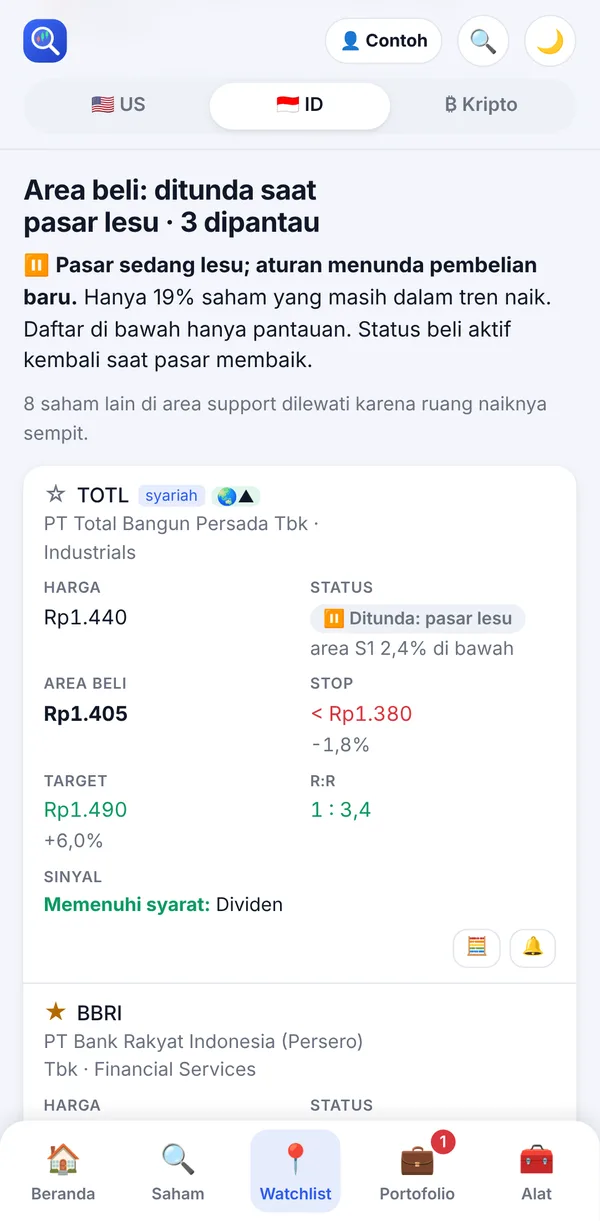
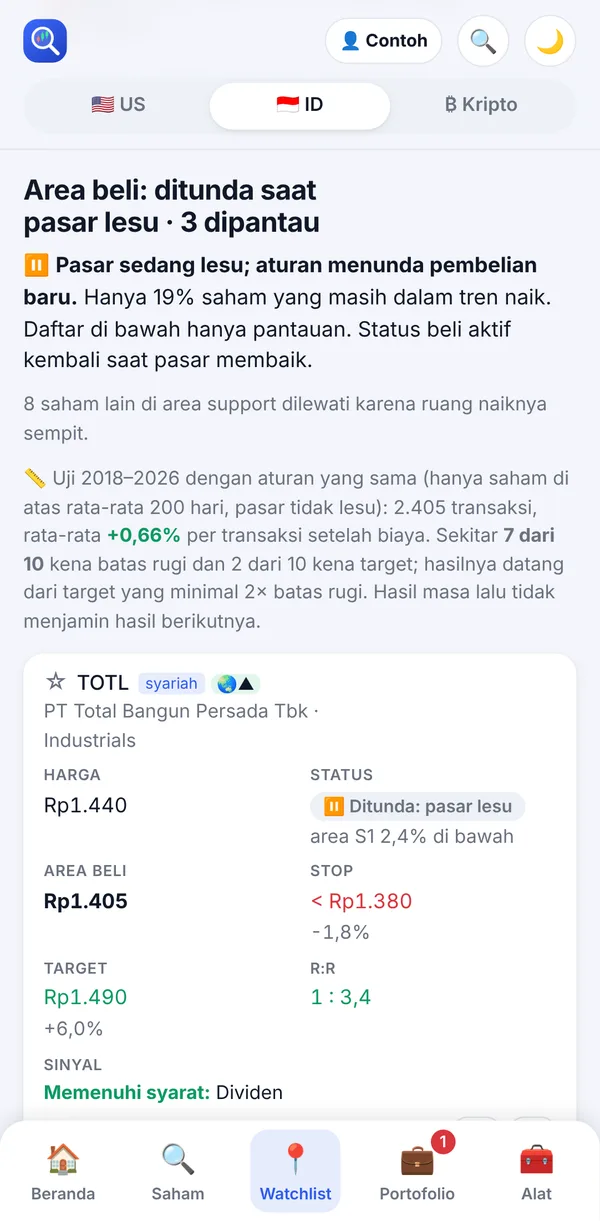
Area beli BEI hanya untuk saham di atas MA200 + hasil uji 2018-2026 di Watchlist
Claude-Session: https://claude.ai/code/session_012CAGJkYUHsEMWwfJLfAKuZ

diff --git a/index.html b/index.html
@@ -559,7 +559,7 @@ function tabCount(t,list){
     else if(t.id==="screen") c=`<b>${fstate().cur.length}</b> aturan · ${fstate().saved.length} favorit`;
     else if(t.id==="divcal") { const td=(DATA&&DATA.priceDate)||""; const n=list.filter(o=>o.dv&&o.dv.ex>=td&&o.dv.ex<=new Date(new Date(td).getTime()+14*864e5).toISOString().slice(0,10)).length; c=`<b>${n}</b> dalam 2 minggu`; }
     else if(t.id==="porto") { const P=porto(); if(!P.open.length) c="Catat & pantau"; else { const nd=P.open.filter(ps=>posEval(ps).acts.some(a=>a.lv<=1)).length; c=`<b>${P.open.length}</b> posisi${nd?` · ⚠ ${nd} perlu tindakan`:""}`; } }
-    else if(t.id==="watch") { if(CYC&&CYC.watch){ const pl=planList(Object.fromEntries(list.map(o=>[o.ticker,o]))).list, n=pl.filter(x=>x.pl.kind==="now").length; c=pl.some(x=>x.pl.kind==="wait")?T(`⏸ ditunda · ${pl.length} dipantau`,`⏸ pasar lesu · ${pl.length} dipantau`):SAFE?`<b>${n}</b> di area beli · ${pl.length-n} menunggu`:`<b>${n}</b> beli sekarang · ${pl.length-n} antrean`; } else c="★ dan area support"; }
+    else if(t.id==="watch") { if(CYC&&CYC.watch){ const pl=planList(Object.fromEntries(list.map(o=>[o.ticker,o]))).list, n=pl.filter(x=>x.pl.kind==="now").length; c=pl.some(x=>x.pl.kind==="wait"&&x.pl.why!=="trend")?T(`⏸ ditunda · ${pl.length} dipantau`,`⏸ pasar lesu · ${pl.length} dipantau`):SAFE?`<b>${n}</b> di area beli · ${pl.length-n} menunggu`:`<b>${n}</b> beli sekarang · ${pl.length-n} antrean`; } else c="★ dan area support"; }
     else if(t.id==="cycles") { const f=CYC&&Object.values(CYC.indices)[0]; c=f?`<b>${(f.rawan||[]).length}</b> tanggal rawan`:"Analisis"; }
     else { const u=list.map(o=>uv(o,t.id)), b=u.filter(x=>x.s==="buy").length, nw=u.filter(x=>x.s==="buy"&&x.fresh).length; c=`<b>${b}</b> layak beli${nw?` · ${nw} baru`:""}`; }
   return c;
@@ -637,7 +637,7 @@ function renderSummary(box){
   if(!CYC&&!CYC_ERR&&!SARAN_LOADED){ SARAN_LOADED=true; loadCycles().then(()=>{ if(tab==="summary") renderResults(); }); }
   const sm=saranMarket(), cand=candidates();
   const candHtml=cand.length?`<p style="margin-top:12px"><b>${T("👀 Saham yang layak dilirik hari ini","👀 Saham yang memenuhi syarat metode yang cocok dengan kondisi pasar")}</b></p><div class="dl">${cand.map(x=>{ const pl=planFor(x.o.ticker);
-      return `<div class="row" data-t="${esc(x.o.ticker)}" style="cursor:pointer"><span><b class="tk">${esc(x.o.ticker)}</b> ${usd(x.o.price)}<br><span class="note">${esc(M.filter(m=>uv(x.o,m.id).s==="buy").map(m=>m.name).join(", "))}</span></span><span>${pl?(pl.kind==="wait"?`<span class="st wait">⏸ ${T("tunggu pasar","ditunda")}</span>`:pl.kind==="now"?`<span class="st buy">${T("🟢 boleh beli","🟢 di area beli")}</span>`:`<span class="st hold">${T("🟡 antre","🟡 area beli")} ${usd(pl.e)}</span>`):`<span class="note">${T("pantau dulu","di luar area beli")}</span>`}</span></div>`}).join("")}</div><p class="note">Ketuk saham untuk penjelasan lengkapnya.</p>`:`<p style="margin-top:10px">Belum ada saham yang cocok dengan kondisi pasar sekarang. Menunggu juga keputusan yang bagus.</p>`;
+      return `<div class="row" data-t="${esc(x.o.ticker)}" style="cursor:pointer"><span><b class="tk">${esc(x.o.ticker)}</b> ${usd(x.o.price)}<br><span class="note">${esc(M.filter(m=>uv(x.o,m.id).s==="buy").map(m=>m.name).join(", "))}</span></span><span>${pl?(pl.kind==="wait"?`<span class="st wait">⏸ ${T("tunggu","ditunda")}</span>`:pl.kind==="now"?`<span class="st buy">${T("🟢 boleh beli","🟢 di area beli")}</span>`:`<span class="st hold">${T("🟡 antre","🟡 area beli")} ${usd(pl.e)}</span>`):`<span class="note">${T("pantau dulu","di luar area beli")}</span>`}</span></div>`}).join("")}</div><p class="note">Ketuk saham untuk penjelasan lengkapnya.</p>`:`<p style="margin-top:10px">Belum ada saham yang cocok dengan kondisi pasar sekarang. Menunggu juga keputusan yang bagus.</p>`;
   const E=(DATA&&DATA.etf)||{}, ek=Object.keys(E).filter(k=>k!=="IHSG"&&E[k].perf1y!=null).slice(0,3);
   const etfNote=IS_ID?(E.IHSG&&E.IHSG.perf1y!=null?`<p class="note">Pembanding: IHSG ${pct(E.IHSG.perf1y)} dalam setahun. ETF di BEI umumnya sepi transaksi, jadi membeli saham pilihan atau reksa dana indeks sering lebih praktis.</p>`:"")
     :(ek.length?`<p class="note">Cara paling sederhana tetap membeli indeks: ${ek.map(k=>`${esc(k)} ${pct(E[k].perf1y)}`).join(" · ")} dalam setahun. Bila tidak sempat memilih saham, ini pilihan dengan bukti terkuat.</p>`:"");
@@ -1256,6 +1256,9 @@ function saranStock(o){
       if(w) L.push(`👍 ${w}. <span class="note">(lolos penilaian ${esc(nm(by.buy))})</span>`);
       L.push(SAFE?`🎯 Area beli menurut aturan: sekitar <b>${usd(pl.e)}</b>. Batas rugi: <b>${usd(pl.stop)}</b> (harga penutupan).`:`🎯 Beli di sekitar <b>${usd(pl.e)}</b> atau lebih rendah. Kalau harga ditutup di bawah <b>${usd(pl.stop)}</b>, jual.`);
       L.push(pl.tgt?(SAFE?`📈 Target menurut aturan (${tip("batas atas","resistance")} terdekat): <b>${usd(pl.tgt)}</b> (+${nf((pl.tgt/pl.e-1)*100,1)}%).`:`📈 Target wajar sekitar <b>${usd(pl.tgt)}</b> (+${nf((pl.tgt/pl.e-1)*100,1)}%).`):"📈 Belum ada penghalang kuat di atas, jadi ruang naiknya masih lega.");
+    } else if(pl&&pl.kind==="wait"&&pl.why==="trend"){ c="y"; title=SAFE?"Lolos penilaian metode; aturan Area beli menunggu tren naik (harga masih di bawah rata-rata 200 hari).":pick(["Saham bagus, tapi trennya masih turun. Tunggu dulu.","Menarik, tapi harganya masih di bawah rata-rata 200 hari. Sabar dulu.","Bagus, cuma trennya belum berbalik naik."],o.ticker);
+      if(w) L.push(`👍 ${w}. <span class="note">(lolos penilaian ${esc(nm(by.buy))})</span>`);
+      L.push(`⏸ ${SAFE?"Area beli menurut aturan":"Area beli yang dipantau"}: <b>${usd(pl.e)}</b>, batas rugi <b>${usd(pl.stop)}</b>. Harga masih ${nf(Math.abs(o.sma200),1)}% di bawah rata-rata 200 hari. ${SAFE?"Di uji 2018–2026, Area beli pada saham dengan tren turun hasilnya jauh lebih rendah.":"Di uji 2018–2026, beli di support saat tren masih turun hasilnya hampir impas. Tunggu harga kembali di atas rata-rata 200 hari."}`);
     } else if(pl&&pl.kind==="wait"){ c="y"; title=SAFE?"Lolos penilaian metode; aturan menunda pembelian saat pasar lesu.":pick(["Saham bagus, tapi pasar sedang lesu. Tunggu dulu.","Menarik, tapi tahan dulu sampai pasar membaik.","Bagus, cuma pasarnya belum mendukung. Sabar dulu."],o.ticker);
       if(w) L.push(`👍 ${w}. <span class="note">(lolos penilaian ${esc(nm(by.buy))})</span>`);
       L.push(`⏸ ${SAFE?"Area beli menurut aturan":"Area beli yang dipantau"}: <b>${usd(pl.e)}</b>${pl.was==="now"?" (harga sudah di area ini)":` (${pc(pl.e,p)} di bawah harga sekarang)`}, batas rugi <b>${usd(pl.stop)}</b>. ${SAFE?"Status beli aktif kembali saat pasar membaik.":"Saat pasar lesu, beli di support sering langsung kena batas rugi. Statusnya kembali ke “beli” begitu pasar membaik."}`);
@@ -1393,7 +1396,10 @@ function planList(byT){
   const mk=(src,near)=>Object.entries(src||{}).filter(([t,w])=>byT[t]&&w.strength!=="lemah").map(([t,w])=>{ const x={t,w,o:byT[t],sg:sigOf(byT[t],allow),near}; x.rm=roomOf(t,w); return x; }).filter(x=>x.sg.any);
   const all=[...mk(W.in,false),...mk(W.near,true)]; let skip=0; const out=[];
   const pause=regime().k==="tertekan"; // pasar lesu: pembelian baru ditunda (uji 9 th: menunggu pasar pulih membuat CAN SLIM jauh lebih tahan)
-  all.forEach(x=>{ x.pl=planOf(x); if(x.pl&&pause) x.pl={...x.pl,was:x.pl.kind,kind:"wait"}; if(x.pl) out.push(x); else skip++; });
+  all.forEach(x=>{ x.pl=planOf(x);
+    if(x.pl&&pause) x.pl={...x.pl,was:x.pl.kind,kind:"wait"};
+    else if(x.pl&&IS_ID&&x.o.sma200!=null&&x.o.sma200<=0) x.pl={...x.pl,was:x.pl.kind,kind:"wait",why:"trend"}; // BEI: hanya saham di atas rata-rata 200 hari (uji 2018–2026)
+    if(x.pl) out.push(x); else skip++; });
   out.sort((a,b)=>(a.pl.kind==="now"?0:1)-(b.pl.kind==="now"?0:1)||(a.pl.kind==="now"?(b.pl.rr??9)-(a.pl.rr??9):b.pl.dist-a.pl.dist));
   return {list:out,skip};
 }
@@ -1403,14 +1409,15 @@ function renderWatch(box){
   const W=CYC.watch, allow=allowedMethods(), r=regime();
   const byT=Object.fromEntries(filtered().map(o=>[o.ticker,o]));
   const newSet=new Set(W.new||[]), lowSet=new Set(W.lower||[]);
-  const {list,skip}=planList(byT), nNow=list.filter(x=>x.pl.kind==="now").length, nQ=list.length-nNow, pause=list.some(x=>x.pl.kind==="wait")||r.k==="tertekan";
+  const {list,skip}=planList(byT), nNow=list.filter(x=>x.pl.kind==="now").length, nW=list.filter(x=>x.pl.kind==="wait").length, nQ=list.length-nNow-nW, pause=r.k==="tertekan";
+  const AR=LT&&LT.area, ap=AR&&AR.pick, arNote=ap?`<p class="note">📏 Uji ${AR.from.slice(0,4)}–${AR.to.slice(0,4)} dengan aturan yang sama${IS_ID?" (hanya saham di atas rata-rata 200 hari, pasar tidak lesu)":" (pasar tidak lesu)"}: ${nf(ap.n,0)} transaksi, rata-rata <b class="${ap.avg>=0?"ok":"no"}">${pct(ap.avg,2)}</b> per transaksi setelah biaya${IS_ID?"":`, hampir sama dengan pasar (${pct(ap.ex,2)})`}. Sekitar <b>${Math.round(ap.sl/10)} dari 10</b> kena batas rugi dan ${Math.round(ap.tg/10)||1} dari 10 kena target; hasilnya datang dari target yang minimal 2× batas rugi. ${T("Jadi wajar sering kena stop. Yang penting disiplin memasang batas rugi.","Hasil masa lalu tidak menjamin hasil berikutnya.")}</p>`:"";
   const sTags=sectorTags(), own=new Set(porto().open.map(p=>p.code));
   const rrS=pl=>pl.rr==null?'<span class="ok">terbuka</span>':`<span class="${pl.rr>=3?"ok":""}">1 : ${nf(pl.rr,1)}</span>`;
   const row=x=>{ const pl=x.pl, now=pl.kind==="now";
     return `<tr class="row wrow" data-go="${esc(x.t)}" tabindex="0">${stockCell(x.o)}
       <td class="num">${usd(x.o.price)}</td>
-      <td>${pl.kind==="wait"?`<span class="st wait">${T("⏸ Tunggu pasar membaik","⏸ Ditunda: pasar lesu")}</span>`:now?`<span class="st buy">${T("✅ Beli sekarang","✅ Di area beli")}</span>`:`<span class="st hold">${T("⏳ Pasang antrean","⏳ Menunggu area beli")}</span>`}${own.has(x.t)?' <span class="note">💼 tambah posisi</span>':""}${newSet.has(x.t)||lowSet.has(x.t)?' <span class="st buy">baru</span>':""}
-        <br><span class="note">${pl.kind==="wait"?(pl.was==="now"?`sudah di zona S${pl.n} (${pl.z.strength})`:`area S${pl.n} ${nf(-pl.dist,1)}% di bawah`):now?`di zona S${pl.n} ${zr(pl.z)} (${pl.z.strength})`:`menunggu turun ${nf(-pl.dist,1)}% ke S${pl.n} (${pl.z.strength})`}</span></td>
+      <td>${pl.kind==="wait"?`<span class="st wait">${pl.why==="trend"?T("⏸ Tunggu: tren masih turun","⏸ Ditunda: di bawah MA200"):T("⏸ Tunggu pasar membaik","⏸ Ditunda: pasar lesu")}</span>`:now?`<span class="st buy">${T("✅ Beli sekarang","✅ Di area beli")}</span>`:`<span class="st hold">${T("⏳ Pasang antrean","⏳ Menunggu area beli")}</span>`}${own.has(x.t)?' <span class="note">💼 tambah posisi</span>':""}${newSet.has(x.t)||lowSet.has(x.t)?' <span class="st buy">baru</span>':""}
+        <br><span class="note">${pl.kind==="wait"?(pl.why==="trend"?`${nf(Math.abs(x.o.sma200),1)}% di bawah rata-rata 200 hari`:pl.was==="now"?`sudah di zona S${pl.n} (${pl.z.strength})`:`area S${pl.n} ${nf(-pl.dist,1)}% di bawah`):now?`di zona S${pl.n} ${zr(pl.z)} (${pl.z.strength})`:`menunggu turun ${nf(-pl.dist,1)}% ke S${pl.n} (${pl.z.strength})`}</span></td>
       <td class="num"><b>${now?"≤ ":""}${usd(pl.e)}</b>${now&&x.w.dist>0?`<br><span class="note">ideal ${usd(x.w.hi)}</span>`:""}</td>
       <td class="num no" style="white-space:nowrap">&lt;&nbsp;${usd(pl.stop)}<br><span class="note">${nf(pl.loss,1)}%</span></td>
       <td class="num">${pl.tgt?`<span class="ok">${usd(pl.tgt)}</span><br><span class="note">+${nf(pl.up,1)}%</span>`:'<span class="note">tak ada resistance<br>kuat ≤30%</span>'}</td>
@@ -1422,10 +1429,10 @@ function renderWatch(box){
   const idxName=Object.keys(CYC.indices)[0], zs=((CYC.score||{})[idxName]||{}).zones||{};
   box.innerHTML=saranBox(`${saranMarket().head}<ul class="sl"><li>📋 Daftar di bawah hanya berisi saham pilihan ${r.k==="tertekan"?"<b>Dividen, Value, dan Quality</b> (yang paling tahan saat pasar lesu)":esc(allow.map(id=>MID[id].name).join(", "))}.</li>
       <li>⚖ Syaratnya: masih bisa naik minimal ${UP_MIN}% dan calon untungnya minimal ${RR_MIN}× calon rugi.</li><li>🛑 ${T("Kalau harga ditutup di bawah angka <b>Stop</b>, jual atau batalkan antrean.","<b>Stop</b> = batas rugi menurut aturan (harga penutupan).")}</li></ul>`)+`
-    <div class="rhead" style="margin-top:12px"><div class="l"><h2>${pause?T(`Rencana beli: ditunda dulu · ${list.length} saham dipantau`,`Area beli: ditunda saat pasar lesu · ${list.length} dipantau`):T(`Rencana beli: ${nNow} beli sekarang · ${nQ} antrean`,`Area beli: ${nNow} di area · ${nQ} menunggu`)}</h2>
+    <div class="rhead" style="margin-top:12px"><div class="l"><h2>${pause?T(`Rencana beli: ditunda dulu · ${list.length} saham dipantau`,`Area beli: ditunda saat pasar lesu · ${list.length} dipantau`):T(`Rencana beli: ${nNow} beli sekarang · ${nQ} antrean`,`Area beli: ${nNow} di area · ${nQ} menunggu`)+(nW?` · ${nW} ${T("tunggu tren","menunggu tren")}`:"")}</h2>
       ${pause?`<p style="margin:4px 0 6px">⏸ <b>${T("Pasar sedang lesu, jadi belum ada saran beli.","Pasar sedang lesu; aturan menunda pembelian baru.")}</b> ${r.b!=null?`Hanya ${nf(r.b,0)}% saham yang masih dalam tren naik. `:""}${T("Saat pasar seperti ini, beli di area support sering langsung kena batas rugi. Daftar di bawah tetap ditampilkan sebagai pantauan; statusnya kembali ke “Beli sekarang” begitu pasar membaik.","Daftar di bawah hanya pantauan. Status beli aktif kembali saat pasar membaik.")}</p>`:""}
-      <p class="note">${pause?"":T("<b>✅ Beli sekarang</b> = harga sudah di zona support dan hitungannya layak. <b>⏳ Pasang antrean</b> = pasang order beli di harga itu dan tunggu. ","<b>✅ Di area beli</b> = harga sudah di zona support dan memenuhi syarat metode. <b>⏳ Menunggu area beli</b> = area beli menurut aturan ada di bawah harga sekarang. ")}${skip?`${skip} saham lain di area support dilewati karena ruang naiknya sempit. `:""}${zs.n?`Rekam jejak zona ${esc(idxName)}: ${zs.hit} dari ${zs.n} zona yang tersentuh bertahan.`:""}</p></div></div>
-    <div class="tablebox"><table><thead><tr><th>Saham</th><th class="num">Harga</th><th>${T("Aksi","Status")}</th><th class="num">${T("Beli di","Area beli")}</th><th class="num">Stop</th><th class="num">Target</th><th class="num">R:R</th><th>Sinyal</th><th></th></tr></thead><tbody>
+      <p class="note">${pause?"":T("<b>✅ Beli sekarang</b> = harga sudah di zona support dan hitungannya layak. <b>⏳ Pasang antrean</b> = pasang order beli di harga itu dan tunggu. ","<b>✅ Di area beli</b> = harga sudah di zona support dan memenuhi syarat metode. <b>⏳ Menunggu area beli</b> = area beli menurut aturan ada di bawah harga sekarang. ")}${skip?`${skip} saham lain di area support dilewati karena ruang naiknya sempit. `:""}${!pause&&nW?`${nW} saham ditandai “tunggu tren” karena harganya masih di bawah rata-rata 200 hari. `:""}${zs.n?`Rekam jejak zona ${esc(idxName)}: ${zs.hit} dari ${zs.n} zona yang tersentuh bertahan.`:""}</p></div></div>
+    ${arNote}<div class="tablebox"><table><thead><tr><th>Saham</th><th class="num">Harga</th><th>${T("Aksi","Status")}</th><th class="num">${T("Beli di","Area beli")}</th><th class="num">Stop</th><th class="num">Target</th><th class="num">R:R</th><th>Sinyal</th><th></th></tr></thead><tbody>
     ${list.length?list.slice(0,60).map(row).join(""):`<tr><td colspan="9" class="empty">Belum ada saham yang memenuhi syarat hari ini. Lebih baik menunggu daripada memaksa beli.</td></tr>`}</tbody></table></div>
     <div class="mcard" style="margin-top:12px"><h4><span>📈 Rekam jejak Rencana beli</span></h4><div id="trk">${TRK?trackCard():'<p class="note">Memuat…</p>'}</div></div>
     <details class="mcard" style="margin-top:10px"><summary><b>Cara membaca rencana beli</b></summary><div class="dl" style="font-size:14px;margin-top:6px">
@@ -1439,7 +1446,7 @@ function renderWatch(box){
     ${starred.length?starred.map(x=>{ const z=x.z&&x.z.s, w=W.in[x.t], r1=x.z?strongRes(x.z.a):null, pl=list.find(y=>y.t===x.t); return `<tr class="row wrow" data-go="${esc(x.t)}" tabindex="0">${stockCell(x.o)}<td class="num">${usd(x.o.price)}</td>
       <td class="num">${z?zr(z)+" ("+z.strength+")":"–"}</td><td class="num">${w?(w.dist<=0?"di zona":"+"+nf(w.dist,1)+"%"):z?"+"+nf((x.o.price/z.hi-1)*100,1)+"%":"–"}</td>
       <td class="num">${r1?usd(r1.lo)+" ("+pct(r1.dist)+")":"–"}</td>
-      <td style="font-size:13px">${pl?(pl.pl.kind==="wait"?`<span class="st wait">⏸ ${T("tunggu pasar","ditunda")}</span> `:pl.pl.kind==="now"?`<span class="st buy">${T("✅ beli sekarang","✅ di area beli")}</span> `:`<span class="st hold">${T("⏳ antre","⏳ area beli")} ${usd(pl.pl.e)}</span> `):""}${sigCell(sigOf(x.o,M.map(m=>m.id)))}</td></tr>`}).join("")
+      <td style="font-size:13px">${pl?(pl.pl.kind==="wait"?`<span class="st wait">⏸ ${T("tunggu","ditunda")}</span> `:pl.pl.kind==="now"?`<span class="st buy">${T("✅ beli sekarang","✅ di area beli")}</span> `:`<span class="st hold">${T("⏳ antre","⏳ area beli")} ${usd(pl.pl.e)}</span> `):""}${sigCell(sigOf(x.o,M.map(m=>m.id)))}</td></tr>`}).join("")
       :`<tr><td colspan="6" class="empty">Belum ada saham yang Anda tandai.</td></tr>`}</tbody></table></div>
     ${broken.length?`<div class="rhead" style="margin-top:16px"><div class="l"><h2>⚠ Support jebol hari ini</h2><p class="note">Kemarin di area support, hari ini ditutup di bawah batas jebol. Batalkan antrean dan evaluasi ulang.</p></div></div>
       <div class="tablebox"><table><thead><tr><th>Saham</th><th class="num">Harga</th><th class="num">Zona yang jebol</th><th class="num">Di bawah zona</th></tr></thead><tbody>
@@ -2146,7 +2153,7 @@ function renderCompare(box){
     ${os.length<2?`<p class="note" style="margin-top:10px">Isi minimal 2 kode saham.</p>`:`
     <div class="tablebox" style="margin-top:12px"><table class="nocard"><thead><tr><th></th>${os.map((o,i)=>`<th class="num" style="text-transform:none"><span class="tk" style="color:${CCOL[i]};font-size:16px">${esc(o.ticker)}</span><br><span class="nm" style="font-weight:400">${esc((o.company||"").slice(0,28))}</span></th>`).join("")}</tr></thead><tbody>
       ${R.map(([n,f,g,dir])=>{ const bi=g?best(g,dir):-1; return `<tr><td>${esc(n)}</td>${os.map((o,i)=>`<td class="num ${i===bi?"ok":""}" style="${i===bi?"font-weight:700":""}">${f(o)}</td>`).join("")}</tr>`; }).join("")}
-      <tr><td><b>Rencana beli</b></td>${os.map(o=>{ const x=pl.find(y=>y.t===o.ticker); return `<td class="num">${x?(x.pl.kind==="wait"?`<span class="st wait">⏸ ${T("tunggu pasar","ditunda")}</span>`:x.pl.kind==="now"?`<span class="st buy">${T("✅ beli sekarang","✅ di area beli")}</span>`:`<span class="st hold">${T("⏳ antre","⏳ area beli")} ${usd(x.pl.e)}</span>`):'<span class="na">–</span>'}</td>`; }).join("")}</tr>
+      <tr><td><b>Rencana beli</b></td>${os.map(o=>{ const x=pl.find(y=>y.t===o.ticker); return `<td class="num">${x?(x.pl.kind==="wait"?`<span class="st wait">⏸ ${T("tunggu","ditunda")}</span>`:x.pl.kind==="now"?`<span class="st buy">${T("✅ beli sekarang","✅ di area beli")}</span>`:`<span class="st hold">${T("⏳ antre","⏳ area beli")} ${usd(x.pl.e)}</span>`):'<span class="na">–</span>'}</td>`; }).join("")}</tr>
       ${M.map(m=>`<tr><td>${esc(m.name)}</td>${os.map(o=>`<td class="num">${uchip(uv(o,m.id))}</td>`).join("")}</tr>`).join("")}
     </tbody></table></div>
     <div class="tablebox" style="padding:10px;margin-top:12px"><b>Pergerakan harga (%, mulai dari 0)</b> <span class="legend">${os.map((o,i)=>`<span style="color:${CCOL[i]}">— ${esc(o.ticker)}</span>`).join("")}</span><div id="cmpChart" style="width:100%;min-height:300px;margin-top:6px"></div>

diff --git a/chartflow/public/index.html b/chartflow/public/index.html
@@ -248,7 +248,7 @@ input.code{font-size:22px;letter-spacing:.18em;text-align:center;text-transform:
   </div>
   <h3 class="grp">🎯 Menentukan harga</h3>
   <div class="grid">
-    <div class="card"><div class="e">📍</div><h3>Area beli</h3><p>Harga beli, batas rugi, dan target menurut aturan, dari zona support terdekat. Hanya yang calon untungnya minimal 2× calon rugi. Saat pasar lesu, area beli hanya jadi pantauan sampai pasar membaik.</p></div>
+    <div class="card"><div class="e">📍</div><h3>Area beli</h3><p>Harga beli, batas rugi, dan target menurut aturan, dari zona support terdekat. Hanya yang calon untungnya minimal 2× calon rugi. Di BEI hanya untuk saham yang trennya naik (di atas rata-rata 200 hari), dan saat pasar lesu area beli hanya jadi pantauan. Hasil uji 2018–2026 ditampilkan di halamannya.</p></div>
     <div class="card"><div class="e">🕯</div><h3>Grafik & 8 indikator</h3><p>Candlestick dan volume dengan MA 20/50/200, EMA, Bollinger, VWAP, RSI, MACD, dan Stochastic RSI, masing-masing dengan bacaan otomatis. Ada garis tren otomatis dengan dua skenario arah (naik dan turun), dan jalur zigzag ke depan (ke mana dulu, lalu ke mana), beserta catatan seberapa sering tebakan itu benar, alat untuk menarik garis tren dan Garis info sendiri, serta tombol TradingView.</p></div>
     <div class="card"><div class="e">📈</div><h3>Zona support & resistance</h3><p>Dari Fibonacci, titik balik, rata-rata bergerak, dan angka bulat. Setiap unsur diuji: mana yang terbukti, mana yang tidak.</p></div>
     <div class="card"><div class="e">🧮</div><h3>Kalkulator lot</h3><p>Berapa lot, rugi bila kena batas rugi, untung di target, dan harga impas setelah biaya.</p></div>

diff --git a/scripts/plan_track.py b/scripts/plan_track.py
@@ -36,6 +36,8 @@ def plans(d: dict, c: dict, allow: list[str], layak, idr: bool, liquid_only: boo
                 continue
             if liquid_only and o.get("liq", "L") != "L":
                 continue
+            if idr and o.get("sma200") is not None and o["sma200"] <= 0:  # BEI: hanya saham di atas rata-rata 200 hari (uji 2018–2026)
+                continue
             if not any(layak(o, m) for m in allow):
                 continue
             p = o["price"]
